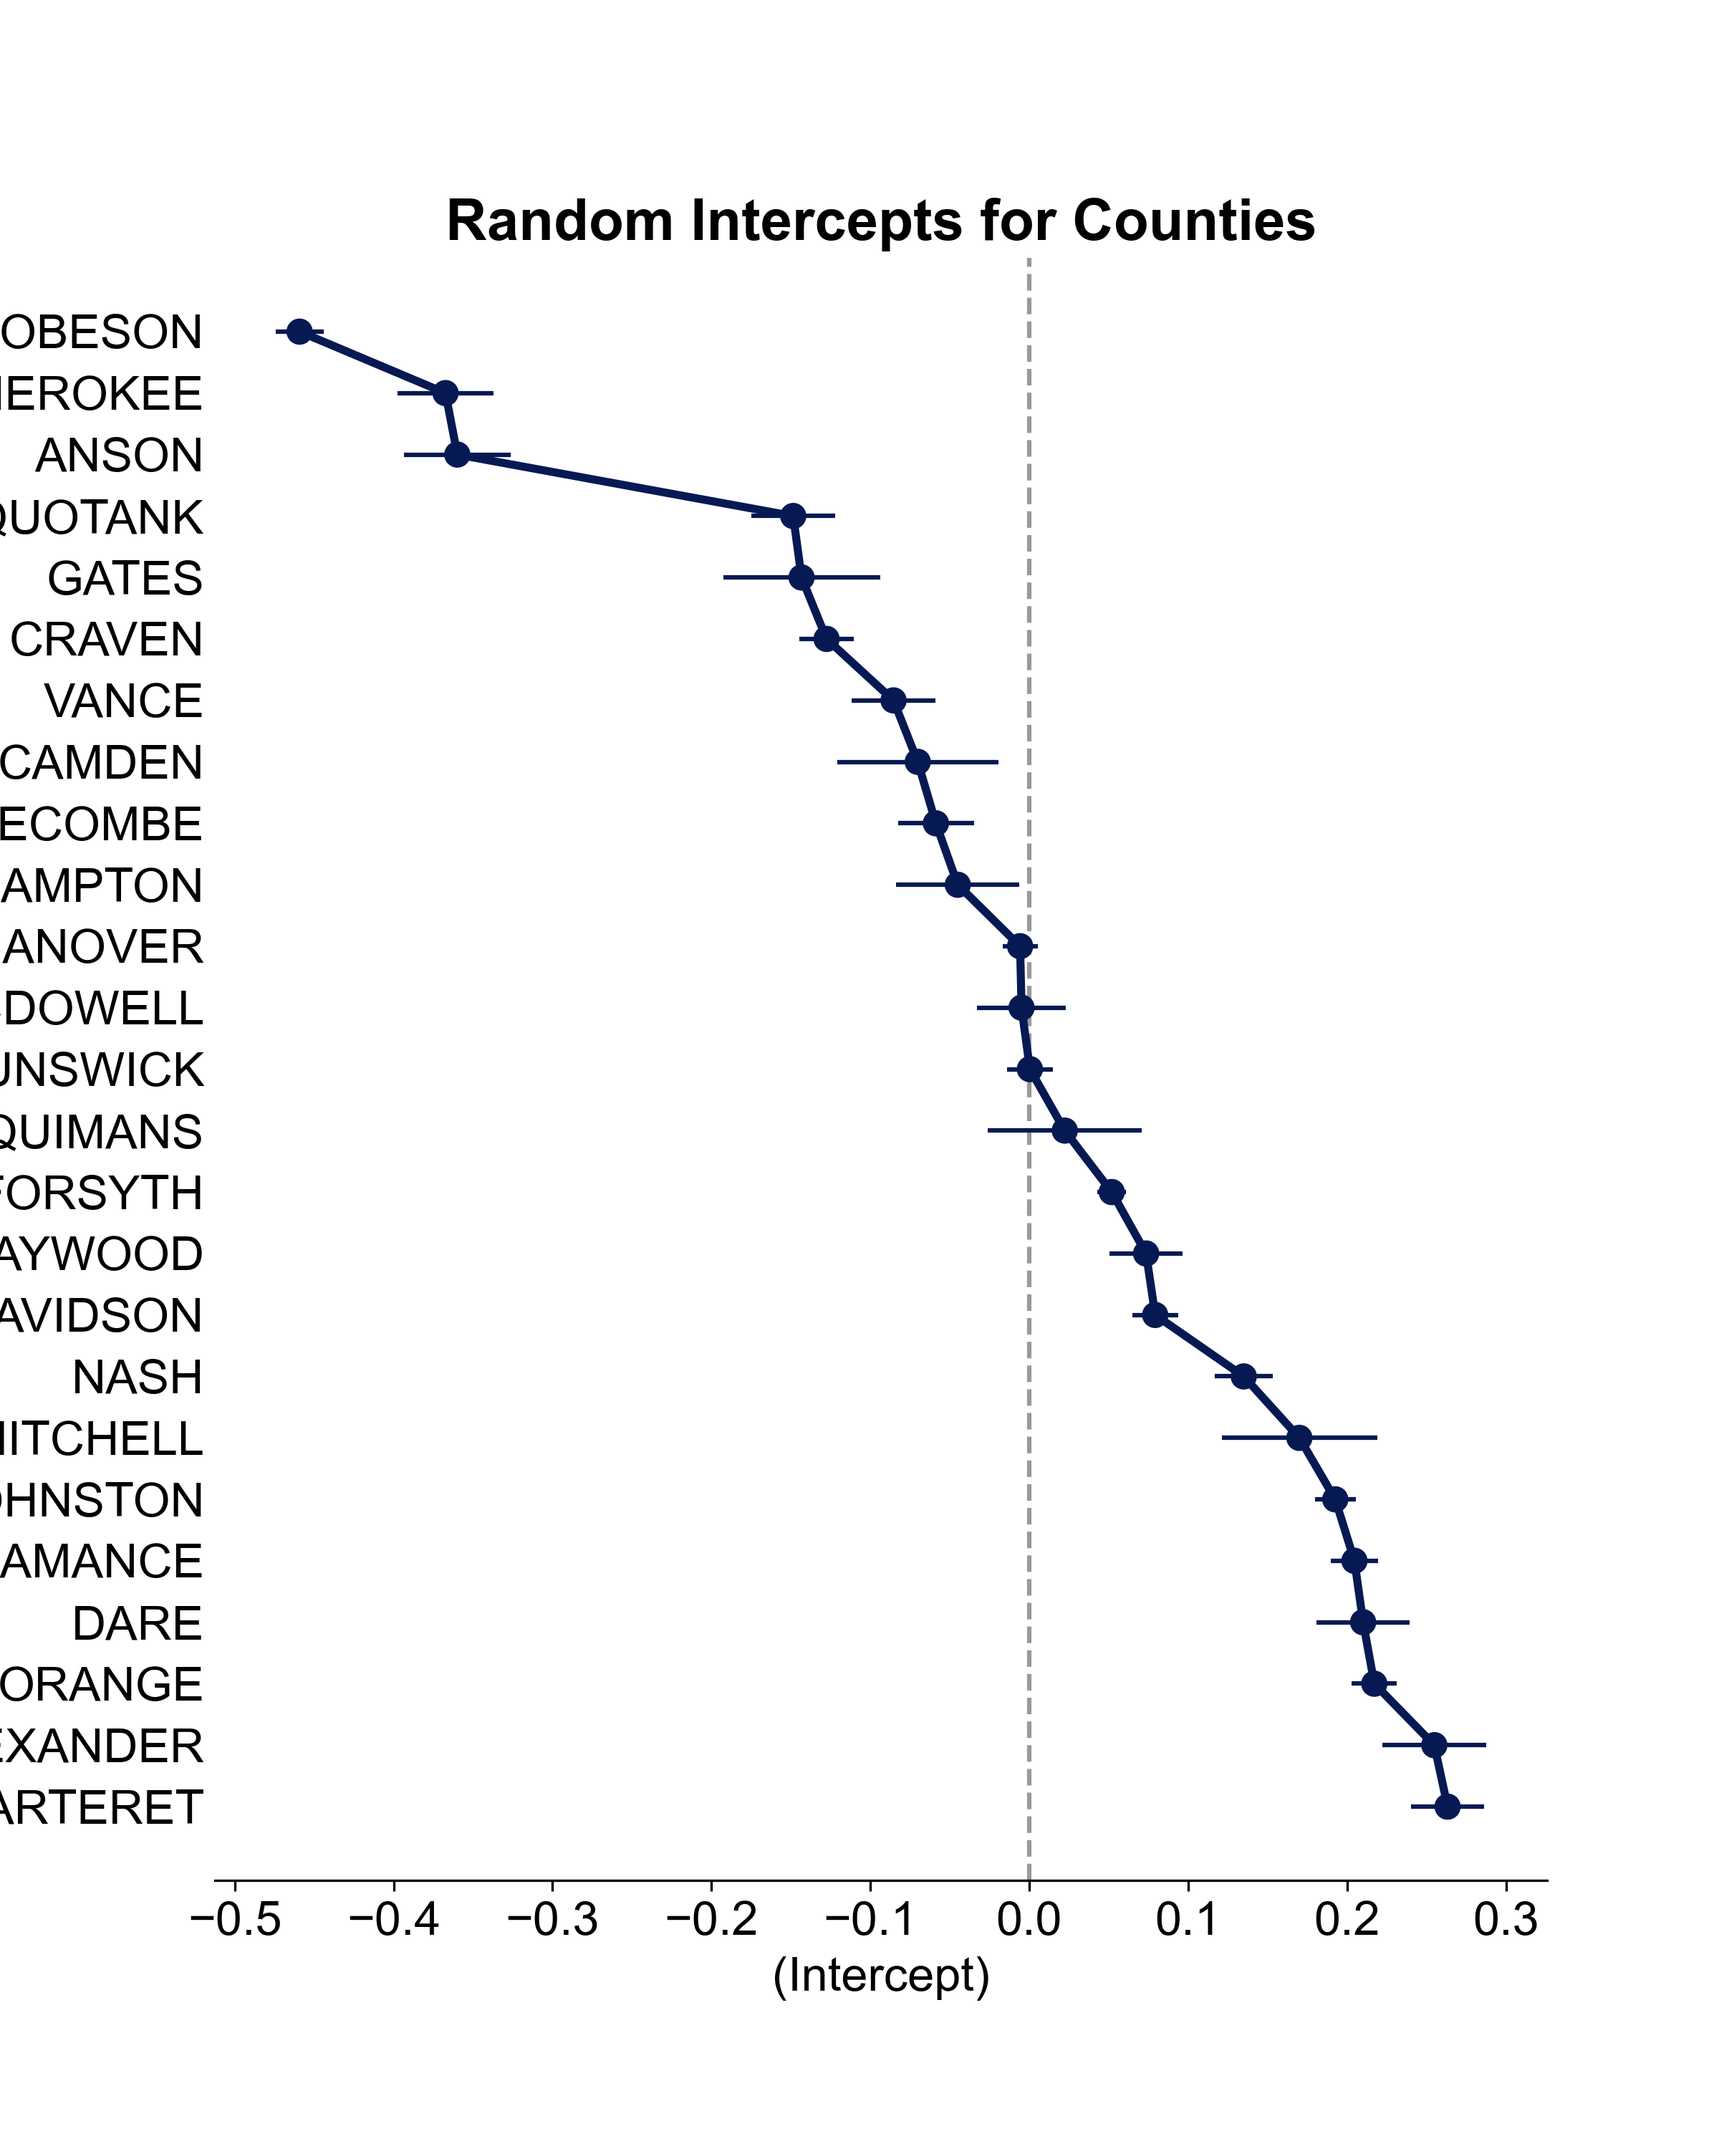
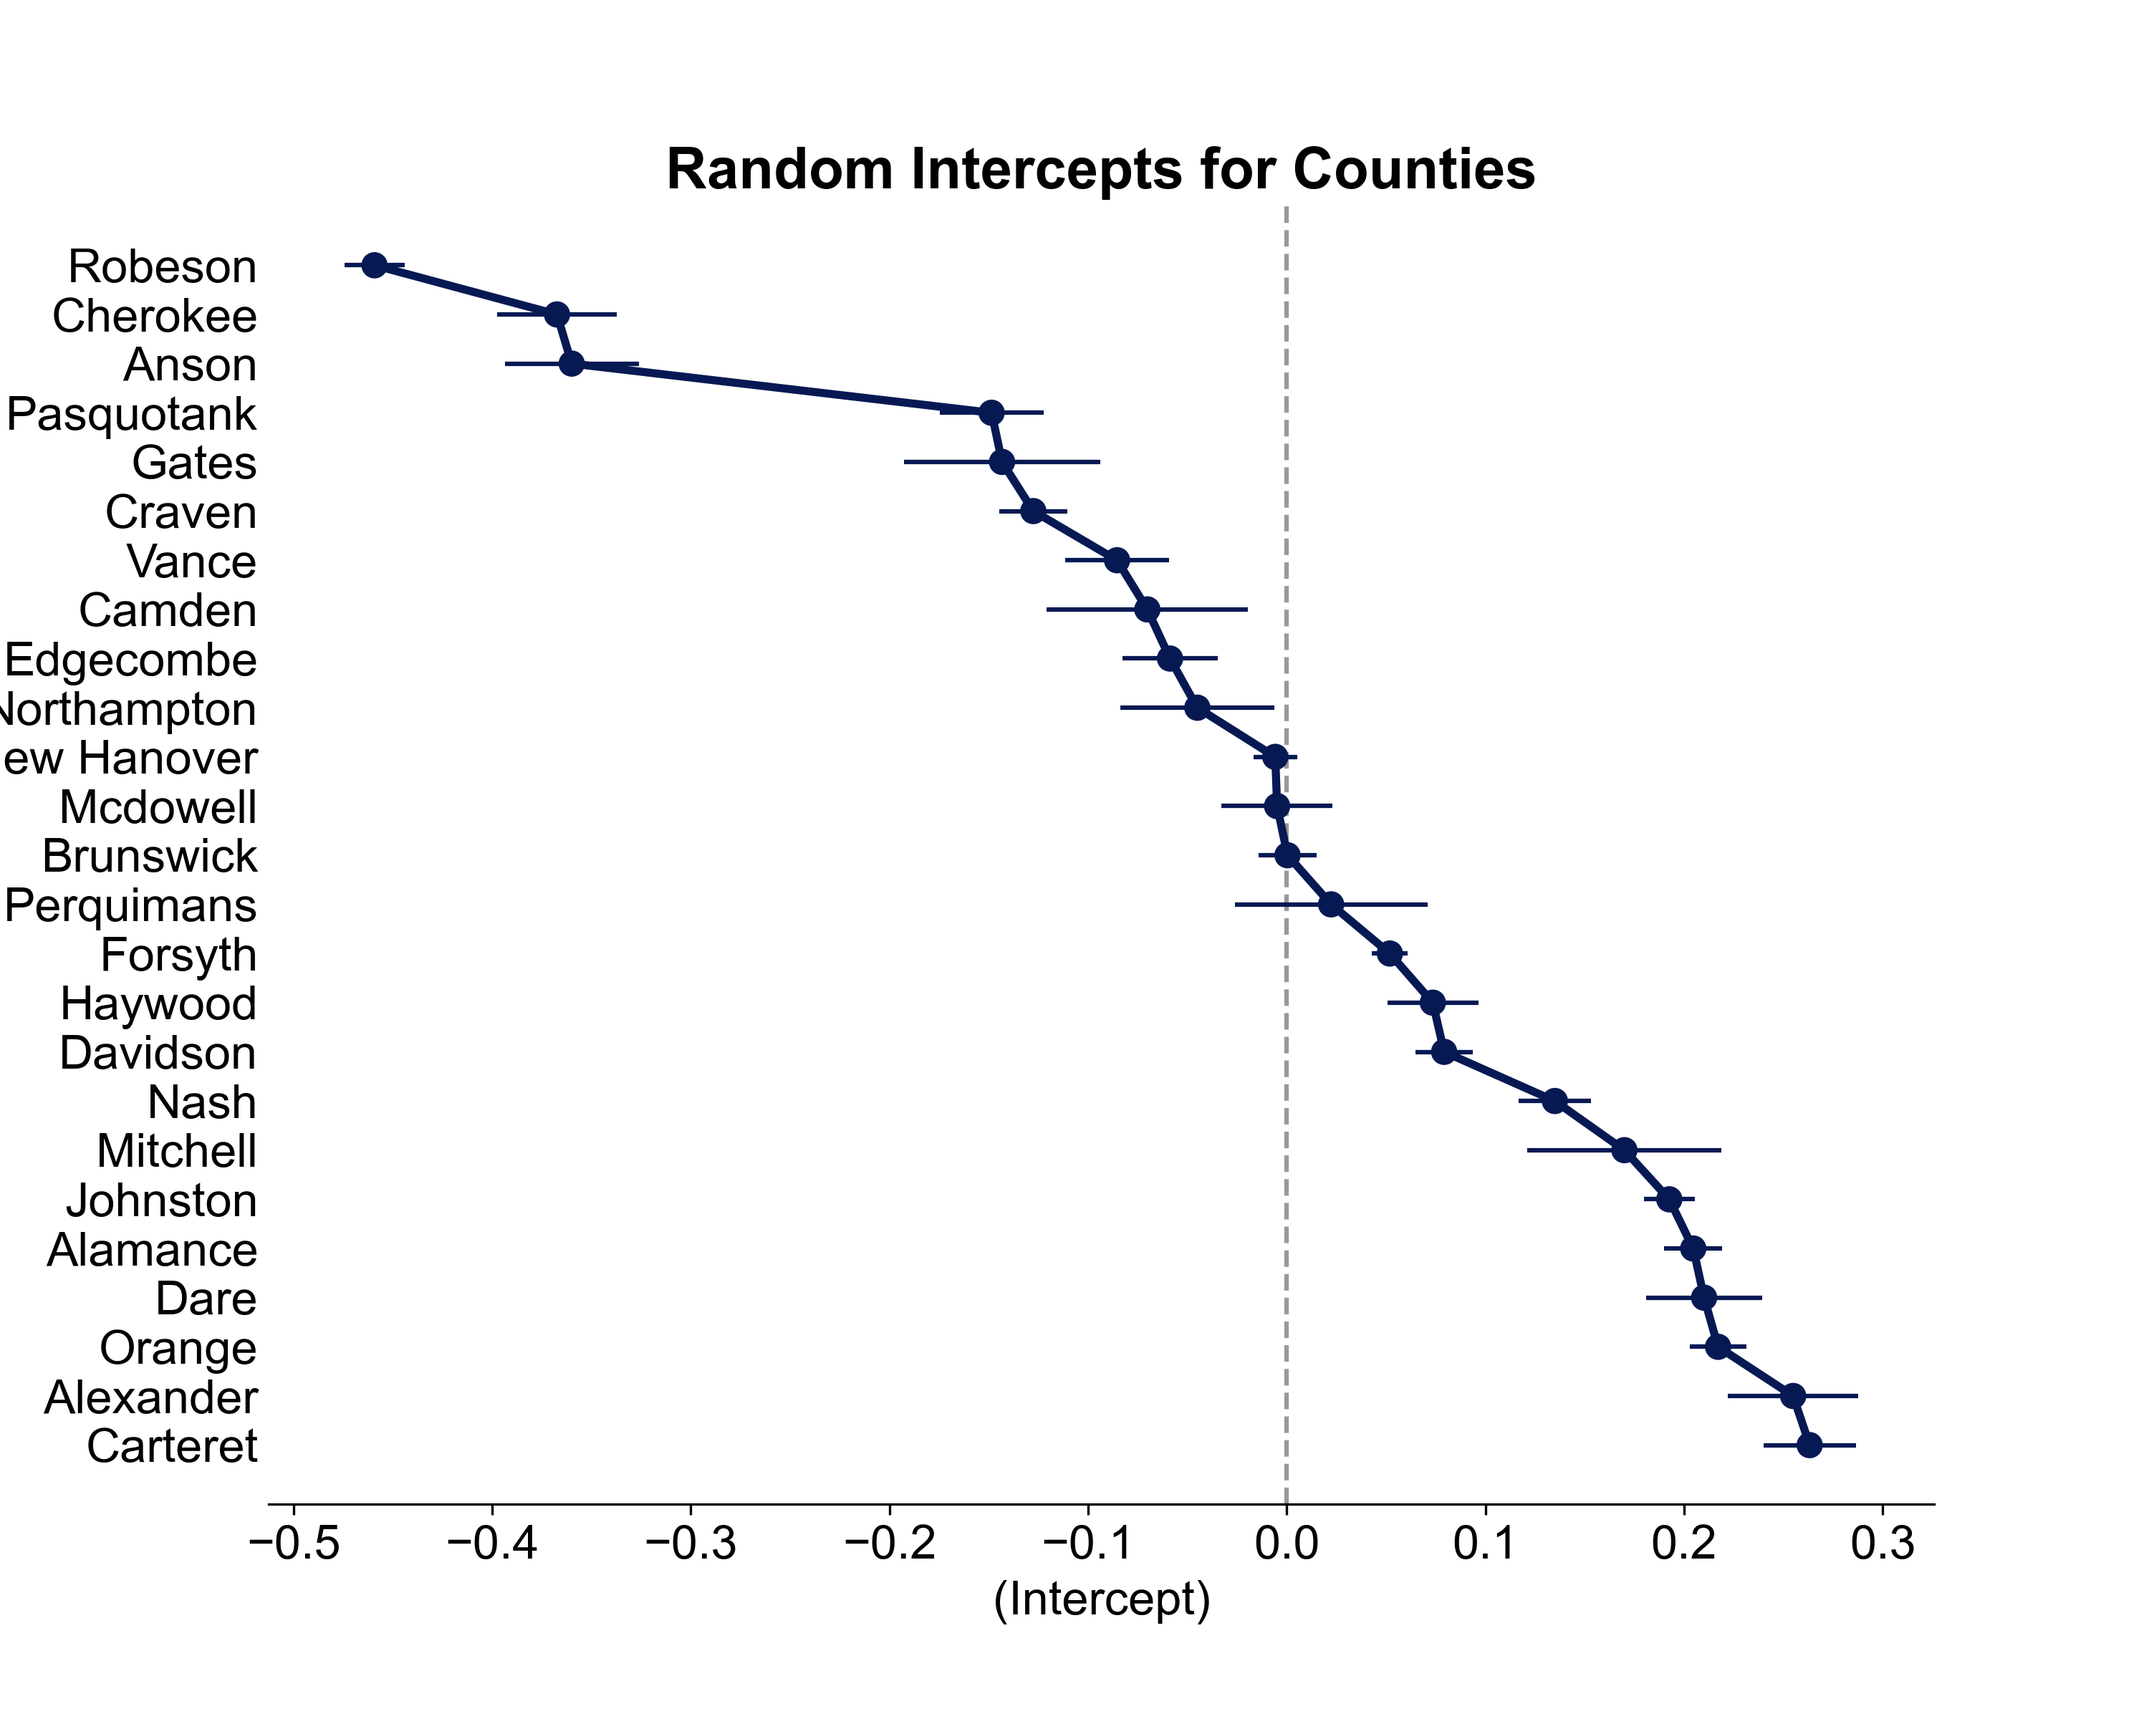
aspect

diff --git a/Presentation/part2_plots.py b/Presentation/part2_plots.py
@@ -169,7 +169,7 @@ df_dotplot_county = pd.read_parquet(
 
 df_dotplot_county["county_desc"] = df_dotplot_county["county_desc"].astype("category")
 
-fig, ax = plt.subplots(figsize=(8, 10))
+fig, ax = plt.subplots(figsize=(10, 8))
 
 sns.pointplot(
     data=df_dotplot_county,
@@ -197,4 +197,5 @@ ax.set_ylabel("County")
 ax.set_title("Random Intercepts for Counties", weight="bold")
 ax.spines["left"].set_visible(False)
 ax.yaxis.set_tick_params(which="both", length=0)
+ax.set_yticklabels([lab.get_text().title() for lab in ax.get_yticklabels()],)
 plt.savefig("Images/part2_intercept_by_county.png", facecolor="white", dpi=300)
